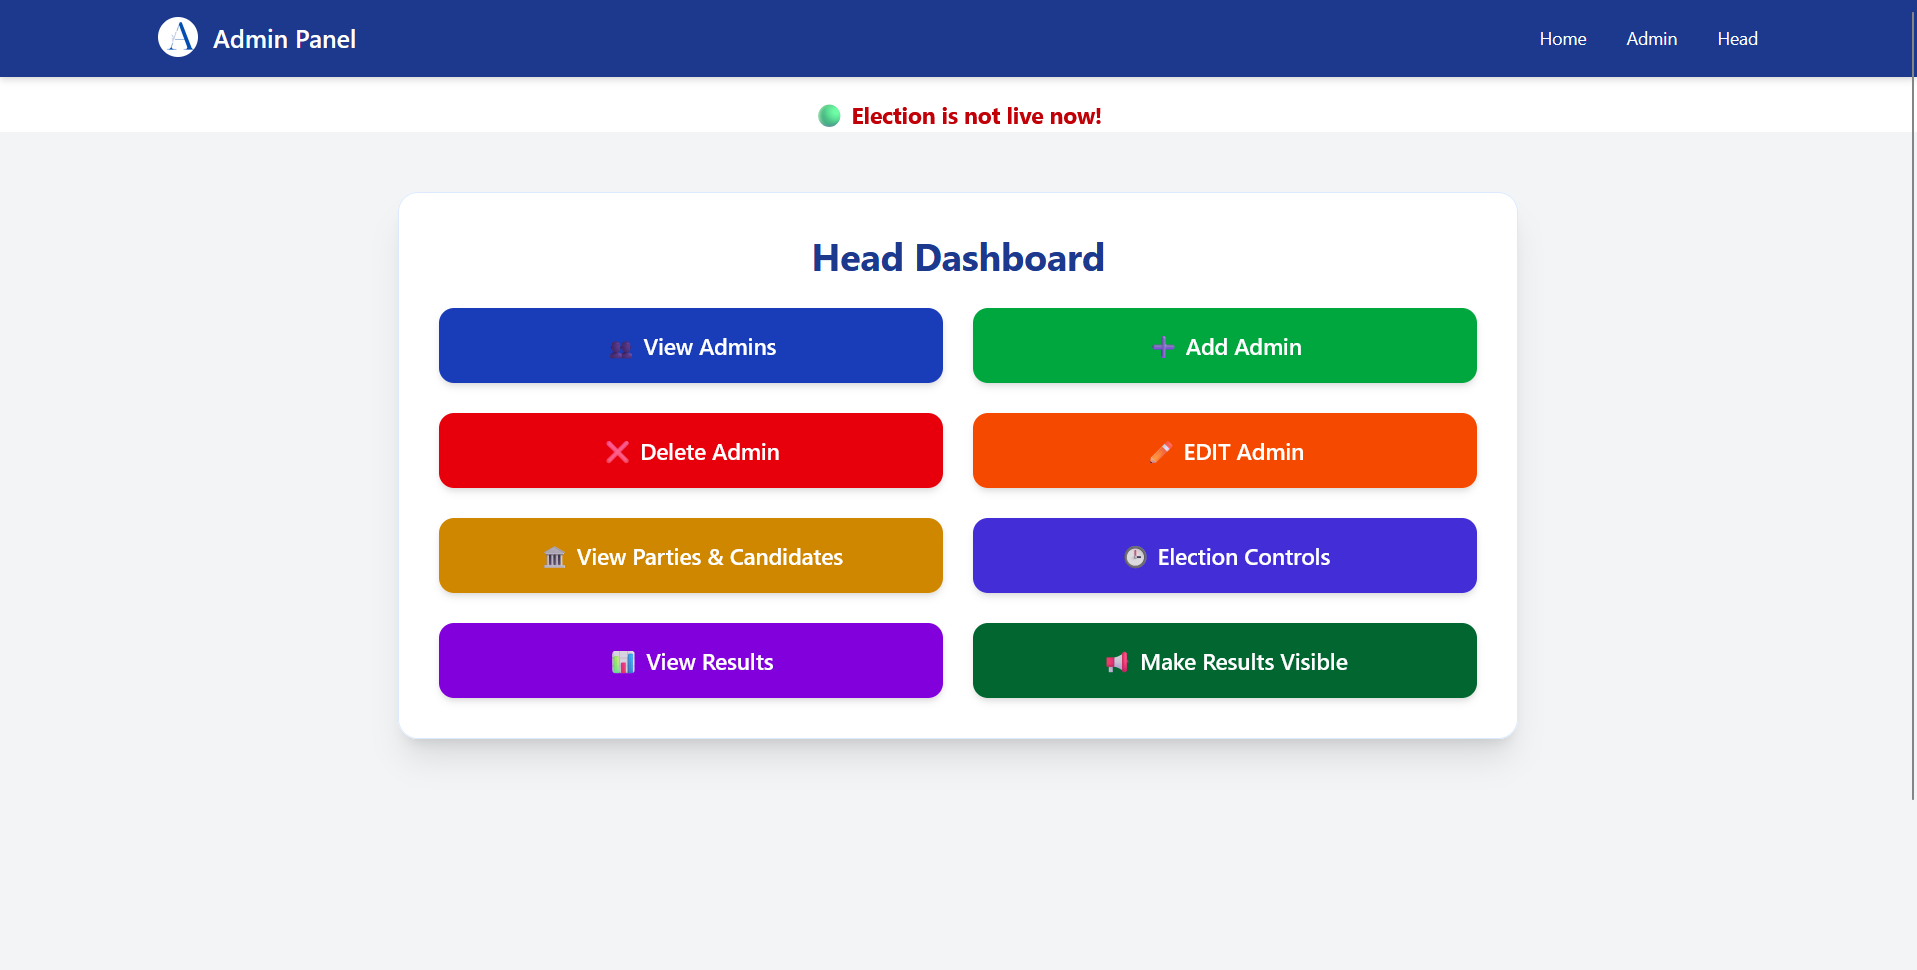
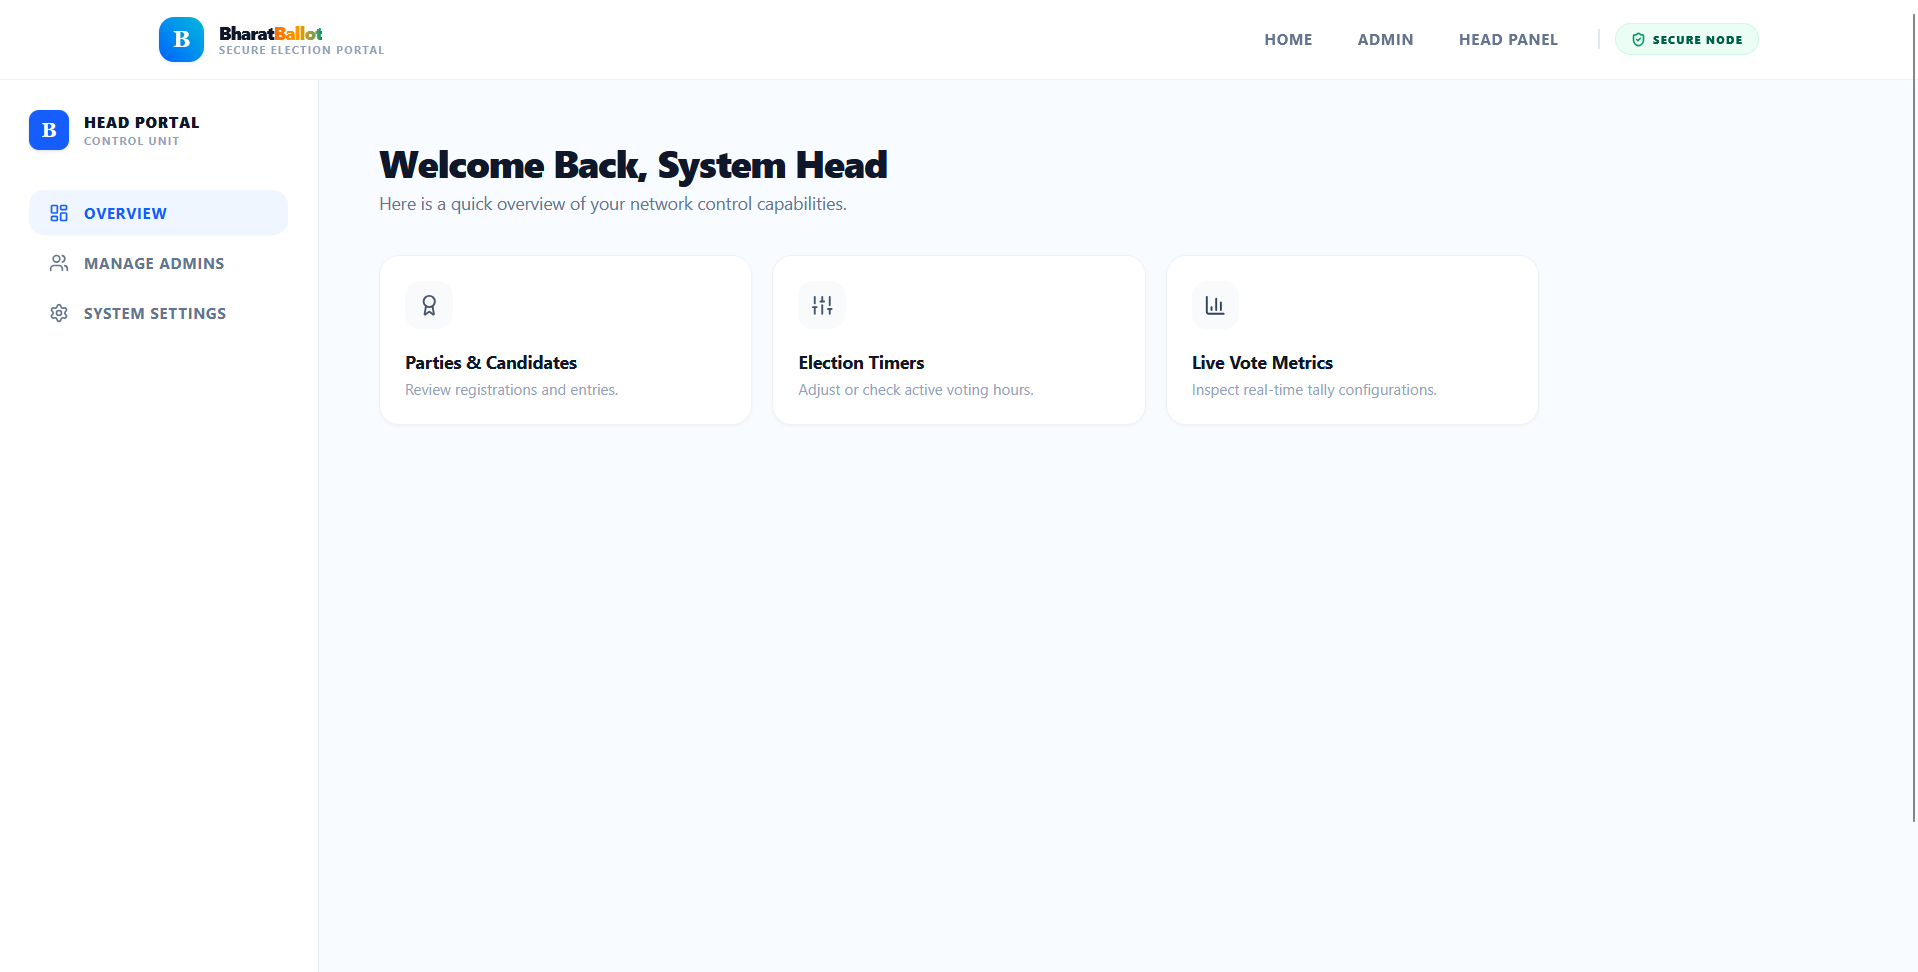
update election project details: rename to Bharat Ballot and update title and headings

diff --git a/views/election.html b/views/election.html
@@ -9,7 +9,7 @@
     <link rel="manifest" href="../public/favicon/site.webmanifest">
     <link rel="stylesheet" href="../public/stylesheets/style.css">
     <link rel="stylesheet" href="../public/stylesheets/details.css">
-    <title>Tejwardeep Singh | E-Election Case Study</title>
+    <title>Tejwardeep Singh | Bharat Ballot  Case Study</title>
 </head>
 <body class="election-theme">
 
@@ -24,7 +24,7 @@
         <header class="case-hero">
             <div class="hero-text">
                 <span class="badge">Full-Stack • Security • RBAC</span>
-                <h1>E-Election System</h1>
+                <h1>Bharat Ballot</h1>
                 <p class="subtitle">
                     A high-integrity digital voting platform designed to eliminate fraud and manual delays through role-based architecture and real-time verification.
                 </p>

diff --git a/index.html b/index.html
@@ -184,7 +184,7 @@
                             <div class="project">
                                 <img src="public/images/election.png" alt="Election Portal">
 
-                                <h4>Election Portal</h4>
+                                <h4>Bharat Ballot</h4>
 
                                 <p>
                                     Full-stack voting platform with secure authentication and real-time vote management.